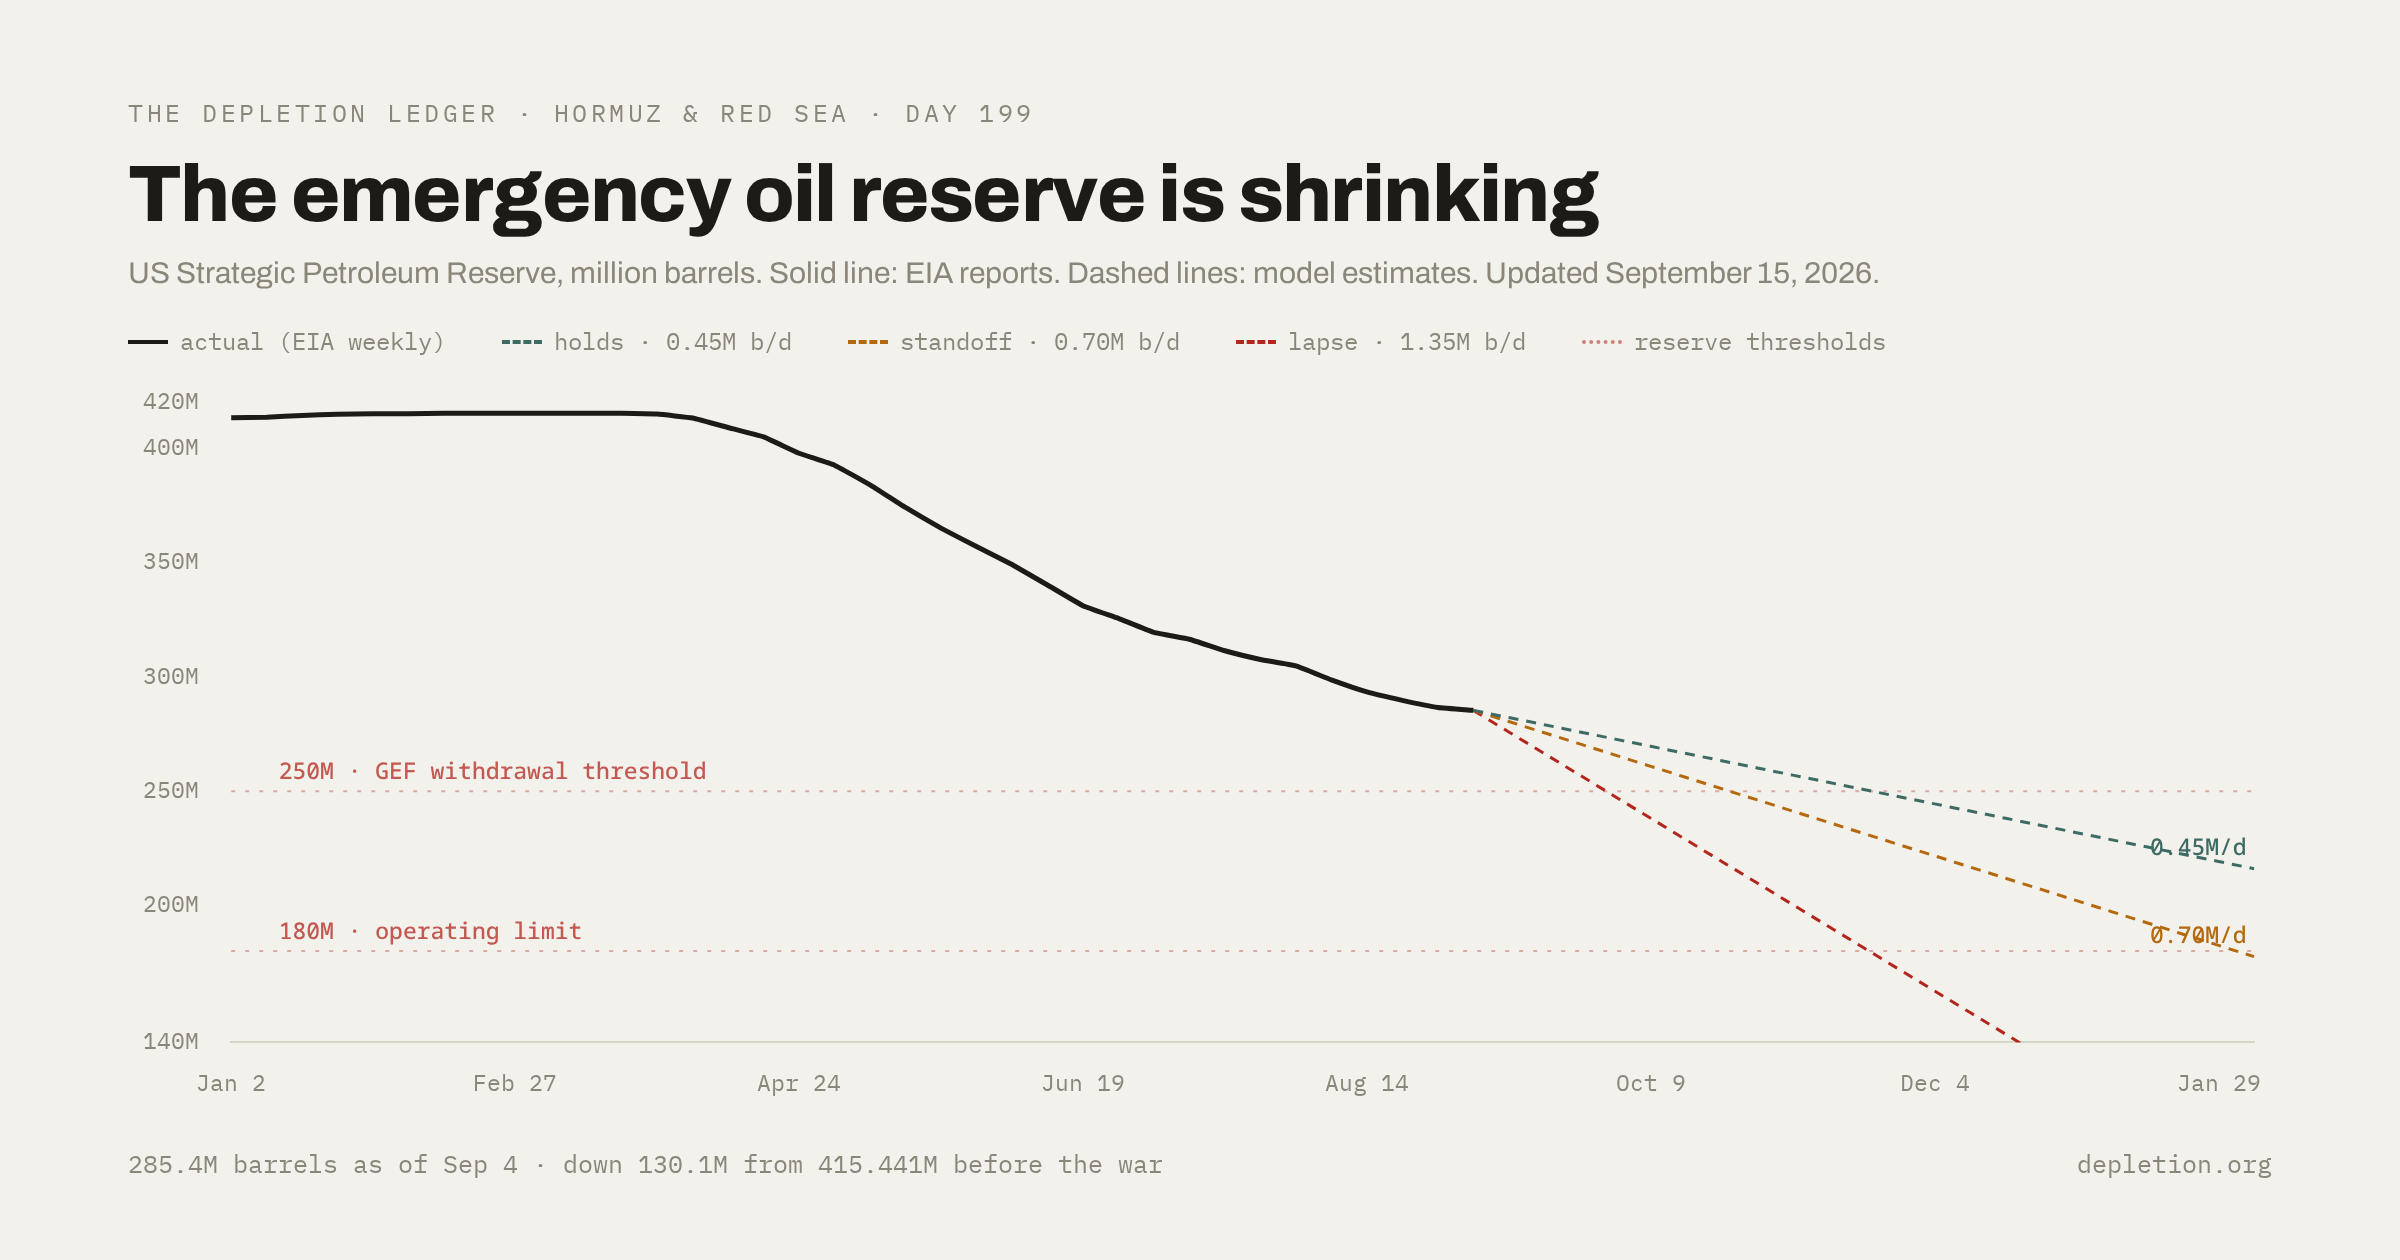
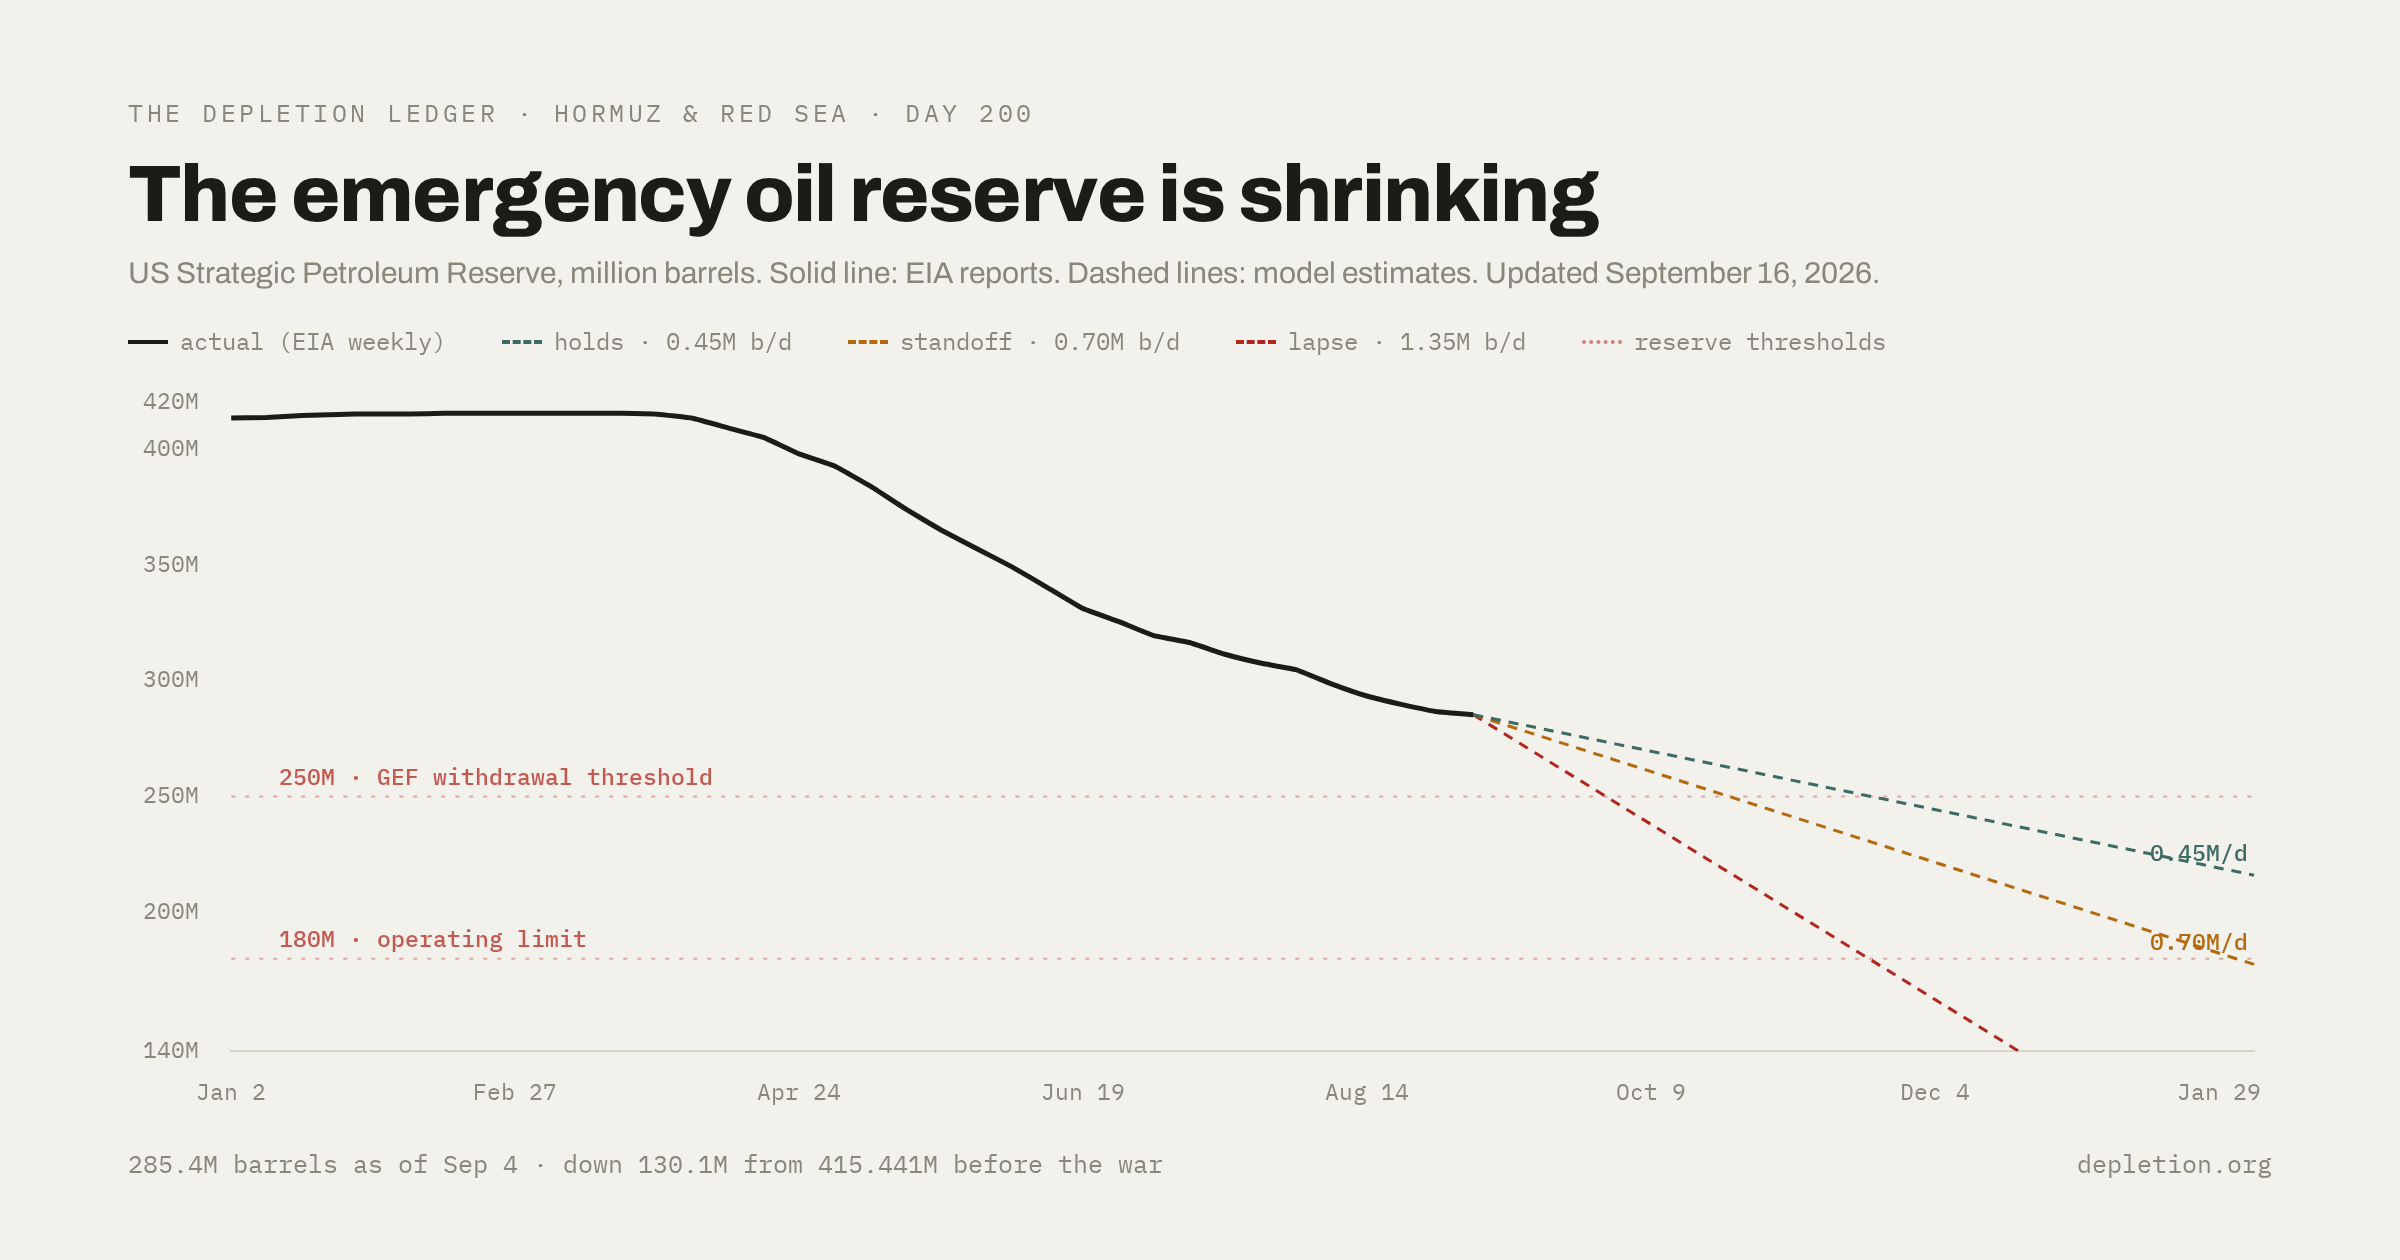
2026-09-16

diff --git a/site/src/data/crisis.ts b/site/src/data/crisis.ts
@@ -6,7 +6,7 @@
 // real observation with a source; `approx: true` marks a source's rounded estimate
 // (e.g. "Brent near $80 on Jun 22") and renders as a hollow marker.
 
-export const DATA_AS_OF = "2026-09-15";
+export const DATA_AS_OF = "2026-09-16";
 // War began Feb 28, 2026 (report: "Pre-war (Feb 28)"; ACLED damage inventory "since Feb 28"; IEA supply loss "since Feb").
 // Day count = days elapsed since Feb 28 → Sep 9, 2026 = Day 193.
 export const CRISIS_DAY_1 = "2026-02-28";
@@ -21,9 +21,9 @@ export interface SeriesPoint {
 
 // ---------- Headline stats ----------
 export const stats = [
-  { label: "Brent", value: "$108.50", sub: "Sep 15 close · +43% vs pre-crisis ~$76" },
-  { label: "US diesel (AAA)", value: "$6.27", sub: "Sep 15 · new all-time record ($6.2694) — sixth straight · +68% vs pre-war $3.72" },
-  { label: "US gasoline (AAA)", value: "$4.33", sub: "Sep 15 · +18¢ in a week (AAA) · +54% vs Jan $2.81" },
+  { label: "Brent", value: "$108.75", sub: "Sep 15 close (corrected) · +43% vs pre-crisis ~$76" },
+  { label: "US diesel (AAA)", value: "$6.31", sub: "Sep 16 · all-time record $6.3103 · seventh day in a row · +70% vs pre-war $3.72" },
+  { label: "US gasoline (AAA)", value: "$4.37", sub: "Sep 16 · +14¢ in a week (AAA) · +55% vs Jan $2.81" },
   { label: "SPR", value: "285.4M", sub: "Sep 4 · down 1.2M in a week · down 130.1M from pre-war 415.4M · lowest since Dec 1982" },
   { label: "US diesel & heating oil", value: "106.3M", sub: "Sep 4 · up 2.1M in a week · 13% below 5-year average · East Coast stocks 28% below last year" },
 ];
@@ -46,7 +46,7 @@ export const brentYtd: SeriesPoint[] = [
   { date: "2026-09-10", value: 108.03, note: "close +$6.82 in a day (Yahoo front-month; Convex cross-check)" },
   { date: "2026-09-11", value: 104.61, note: "settle −2.8% (CNBC)" },
   { date: "2026-09-14", value: 105.68, note: "closing price (Yahoo, corrected Sep 15)" },
-  { date: "2026-09-15", value: 108.50, note: "closing price (Yahoo front-month). Before the shutdown, the East–West pipeline carried about 4M barrels a day to Yanbu, according to Reuters. Stored oil at the port was estimated to cover 5–7 days of exports." },
+  { date: "2026-09-15", value: 108.75, note: "closing price (Yahoo front-month; corrected from $108.50). Before the shutdown, the East–West pipeline carried about 4M barrels a day to Yanbu, according to Reuters. Stored oil at the port was estimated to cover 5–7 days of exports." },
 ];
 export const brentMonthlyAvgs = [
   { month: "Mar", value: 103.0, src: "EIA" },
@@ -115,7 +115,7 @@ export const wtiWeekly: SeriesPoint[] = [
   { date: "2026-09-10", value: 102.93 },
   { date: "2026-09-11", value: 100.05, note: "settle −2.4% (CNBC)" },
   { date: "2026-09-14", value: 101.39, note: "front-month futures close (Yahoo, corrected Sep 15; FRED not yet available)" },
-  { date: "2026-09-15", value: 105.48, note: "front-month futures close (Yahoo)" },
+  { date: "2026-09-15", value: 105.83, note: "front-month futures close (Yahoo; corrected from $105.48)" },
 ];
 
 // ---------- US retail gasoline, $/gal — EIA weekly (verified); AAA daily Sep 10–14
@@ -163,6 +163,7 @@ export const gasolineYtd: SeriesPoint[] = [
   { date: "2026-09-13", value: 4.3130, note: "AAA release Sep 13 (logged)" },
   { date: "2026-09-14", value: 4.3163, note: "AAA release Sep 14 (logged)" },
   { date: "2026-09-15", value: 4.3289, note: "AAA release, Sep 15" },
+  { date: "2026-09-16", value: 4.3672, note: "AAA release, Sep 16" },
 ];
 export const gasolinePreCrisis = 2.81; // Jan 2026 monthly avg (BTS/EIA)
 
@@ -185,6 +186,7 @@ export const dieselYtd: SeriesPoint[] = [
   { date: "2026-09-13", value: 6.2040, note: "AAA record — fourth straight, +30.7¢ in a week (AAA week-ago avg $5.8970)" },
   { date: "2026-09-14", value: 6.2301, note: "AAA record — fifth consecutive day" },
   { date: "2026-09-15", value: 6.2694, note: "AAA record — sixth consecutive day, up 36.8¢ from $5.9012 a week earlier" },
+  { date: "2026-09-16", value: 6.3103, note: "AAA record — seventh consecutive day, first above $6.30, up 36.8¢ from $5.9424 a week earlier" },
 ];
 export const dieselOldRecord = 5.85; // June 2022 AAA record (broken Sep 4)
 

diff --git a/research/logs/2026-09-16.md b/research/logs/2026-09-16.md
@@ -1,0 +1,70 @@
+# Log — Sep 16, 2026 (Day 200)
+
+## Morning pass (08:00–08:30 ET)
+
+### News (last ~12h)
+
+- **House passed a war-powers resolution to end the Iran war — for the third time: 220–204,
+  7 Republicans in favor (3 for the first time).** Will not reach the President's desk (certain
+  veto); likely the last House vote before the midterms (~50 days out; lawmakers go home this
+  weekend). Rep. Nunn (R-IA): "with the negotiating window closed, sustained combat operations
+  now require congressional authorization." Senate passed one on its 10th try but Republicans
+  reversed the next day after Trump berated them. (SOLID — Al Jazeera,
+  https://www.aljazeera.com/news/2026/9/16/us-house-votes-to-end-iran-war-7-republicans-join-in-favour)
+- **API preliminary (w/e Sep 11): crude BUILT 7.1M bbl vs ~1.6M draw expected — Reuters;
+  gasoline and distillate rose too.** Official EIA WPSR lands 10:30 ET today (the double test:
+  does the reported 0.18M b/d slow draw hold, or did the API build mark a regime change in the
+  inventory picture?). (SOLID — Reuters via CNBC,
+  https://www.cnbc.com/2026/09/16/oil-prices-today-brent-wti-hormuz-iran-war.html)
+- **Libya (SOLID — NOC official report): PFG shut the valve on the Hamada–Zawiya export
+  pipeline; production halted at the Hamada and Al-Tahara fields over the wage dispute; NOC is
+  threatening force majeure** (would take ~300+ kb/d offline). Watchlist item "Libya NOC may
+  declare force majeure" has moved from "may" to "threatening." (NOC via
+  https://libyaherald.com/2026/09/illegal-valve-closure-by-petroleum-facilities-guards-results-in-production-shutdown-of-hamada-zawia-main-oil-transport-pipeline
+  ; https://oilprice.com/Latest-Energy-News/World-News/Libya-Threatens-Force-Majeure-as-Oil-Guards-Shut-Fields.html)
+- **YASREF refinery (Yanbu — 400 kb/d Aramco–Sinopec JV, one of the Red Sea's largest diesel
+  exporters) — strike CLAIMED this morning.** Sources: aggregator/X posts only (Alex Jones Live,
+  Pravda EN, Starconnect Media). No wire, no Aramco statement, no coalition statement as of
+  08:30 ET. Still **CLAIMED** — the hard escalation of Sep 15's unverified strike claim.
+  Re-check wires before anything touches the site.
+- **NYT (Sep 15): "Rising Fuel Prices Set Off Anger and Protests Around the World"** — from
+  Indonesia to Guatemala to Syria, shortages, price spikes, protests, and rolling blackouts;
+  CNN ran a parallel piece. The global political/demand-side story; the first wide wire account
+  of the political-break front outside the US. (SOLID —
+  https://www.nytimes.com/2026/09/15/world/asia/syria-fuel-price-protests-world.html ,
+  https://www.cnn.com/2026/09/15/world/fuel-prices-protests-iran-war-intl)
+- Checked and NOT new: "Hormuz traffic dwindles" = yesterday's Reuters transit piece; WSJ "days
+  away from not being able to export" = Sep 14 repost; "The Hormuz Letter" = X-account
+  credibility thread (166k-follower Iranian market account; r/oil questioning its
+  propaganda-ness — logged as source-quality note, not news); Russia overnight = nothing new
+  (diesel ban extended to Sep 30 stands, T-14); no new verified Hormuz transit count
+  (Sep 15's count lands with the next GlobalSecurity daily / Kpler).
+
+### Prices (pre-open, ~08:15 ET)
+
+- **Brent Nov $107.24 / WTI Oct $103.44** (live, NOT settled — Asia session; US opens 09:30
+  ET). Overnight driver: the API build outweighing supply worries.
+- **Yahoo restated Sep 15 closes: Brent $108.50 → $108.75, WTI $105.48 → $105.83** (same
+  pattern as the Sep 14 restatement; accepted per convention, disclosed in series notes).
+- **10-yr: 4.996% (Sep 15 close) — checked; US Treasury market opens 09:00 ET, no new value
+  yet.** Fed decision 14:00 ET.
+- **AAA Sep 16 (official daily): regular $4.3672, diesel $6.3103 — SEVENTH STRAIGHT
+  ALL-TIME RECORD, first above $6.30, +4.1¢ in a day; +70% vs pre-war $3.72.**
+
+### Site (staging 6e659638)
+
+Prices-only update (user request): DATA_AS_OF → 2026-09-16; stats strip (Brent $108.75
+restated, diesel $6.31 seventh record, gasoline $4.37); brentYtd/wtiWeekly Sep 15 restated
+values disclosed; Sep 16 AAA points appended to both retail series; crack chart + aria +
+prose (diesel $159.2, gasoline $77.6 — derived, peak stays $160.3 Sep 14); endpoint labels;
+x-scales widened 259→262 (Sep 16 = day 259 sits at the edge). Verified live: HTML + JS
+bundle, all new strings present, stale gone. News items (House vote, API, Libya, NYT
+protests, YASREF claim) held for the post-WPSR consolidated update.
+
+### Pending today
+
+- **10:30 ET: WPSR w/e Sep 11** — vs the API build (crude +7.1M). The double test.
+- **14:00 ET: Fed decision** (~86% hike priced; 10-yr at 4.996% going in).
+- **UNSC sanctions-panel vote** (scheduled today).
+- New GlobalSecurity daily (~10 ET): Sep 15 verified transit count + any wire on YASREF.
+- Model re-run after WPSR (draw-rate re-baseline on the reported SPR level).

diff --git a/research/logs/2026-09-15.md b/research/logs/2026-09-15.md
@@ -390,8 +390,8 @@ request: page is long/dense):
 - Staging only (version a674c948), all strings verified live; production still fac0c91b.
 - **Build gotcha (added to skill):** `site/src/content/docs/model.md` is GENERATED — prebuild
   (scripts/sync-content.mjs) regenerates it from `research/MODEL.md` on every build. Direct edits
-  to the generated file vanish per build (mimics a "self-reverting" file; initially suspected the
-  codex session, which was a red herring).
+  to the generated file vanish per build (mimics a "self-reverting" file; initially suspected
+  concurrent editing, which was a red herring).
 - Also logged this session: r/oil + r/energy RSS as standing sources (HTML/JSON IP-blocked, Atom
   feeds work); Piper Sandler 5M b/d physical balance (not CGEP); WSJ/CBO war costs (not a model
   input); the Yanbu TRIGGER assessment (judgment call pending with user — was 10/40/50).
@@ -422,3 +422,11 @@ facilities (Ain Sukhna, Sidi Kerir) are the next buffer, KSA exports were alread
 late July (Piper Sandler), and WSJ-cited analysts put lost throughput "above 2.5M b/d". Reworded
 both the crisis.ts data-tip and the index.astro paragraph: "was carrying about 4M barrels a day to
 Yanbu before its shutdown (Reuters)". Staging ae6bbbcd; verified live.
+
+## Production deploy (20:38 UTC) — version 77bf95b2
+
+User-approved. Built from current sources (which include rewordings of the 4M b/d
+sentence — "Before the shutdown, the East–West pipeline carried about 4M barrels a day to Yanbu,
+according to Reuters" — and the watchlist row); all facts intact. Verified live on
+www.depletion.org: 43%/58% heading, $108.50, chart through Sep 15, treasury 4.996 close, $19 EIA
+gap, Yanbu watchlist row. Model page live with Sep 15 content (21KB, 108.50 present).

diff --git a/research/MODEL.md b/research/MODEL.md
@@ -58,7 +58,7 @@ The probabilities involve judgment. To keep that judgment consistent, **the odds
 
 For example, the odds changed after the corridor agreement was announced and ship-tracking data showed it wasn't working. The first missile strike on a base in a third country led to a Sep 9 change from 15/55/30 to 10/50/40. The pipeline suspension led to the Sep 11 change described above.
 
-These are the events being watched as of Sep 15:
+These are the events being watched as of Sep 16:
 
 | Event | Effect on the odds |
 |---|---|
@@ -78,7 +78,7 @@ The Houthis' territorial gains also need to be considered alongside shipping act
 
 A direct US strike on the Houthis would also trigger a review. The direction of that change would depend on the circumstances at the time.
 
-The gap between the EIA outlook and market prices takes longer to assess. The EIA still expects oil at about $90 in late 2026. Brent closed at $108.50 on Sep 15, about $19 above that forecast.
+The gap between the EIA outlook and market prices takes longer to assess. The EIA still expects oil at about $90 in late 2026. Brent closed at $108.75 on Sep 15, about $19 above that forecast.
 
 The model treats a gap above roughly $10–15 as a sign that the market may be assigning more than 40% odds to the corridor lapsing. The current gap is above that range.
 

diff --git a/site/src/content/docs/model.md b/site/src/content/docs/model.md
@@ -63,7 +63,7 @@ The probabilities involve judgment. To keep that judgment consistent, **the odds
 
 For example, the odds changed after the corridor agreement was announced and ship-tracking data showed it wasn't working. The first missile strike on a base in a third country led to a Sep 9 change from 15/55/30 to 10/50/40. The pipeline suspension led to the Sep 11 change described above.
 
-These are the events being watched as of Sep 15:
+These are the events being watched as of Sep 16:
 
 | Event | Effect on the odds |
 |---|---|
@@ -83,7 +83,7 @@ The Houthis' territorial gains also need to be considered alongside shipping act
 
 A direct US strike on the Houthis would also trigger a review. The direction of that change would depend on the circumstances at the time.
 
-The gap between the EIA outlook and market prices takes longer to assess. The EIA still expects oil at about $90 in late 2026. Brent closed at $108.50 on Sep 15, about $19 above that forecast.
+The gap between the EIA outlook and market prices takes longer to assess. The EIA still expects oil at about $90 in late 2026. Brent closed at $108.75 on Sep 15, about $19 above that forecast.
 
 The model treats a gap above roughly $10–15 as a sign that the market may be assigning more than 40% odds to the corridor lapsing. The current gap is above that range.
 
